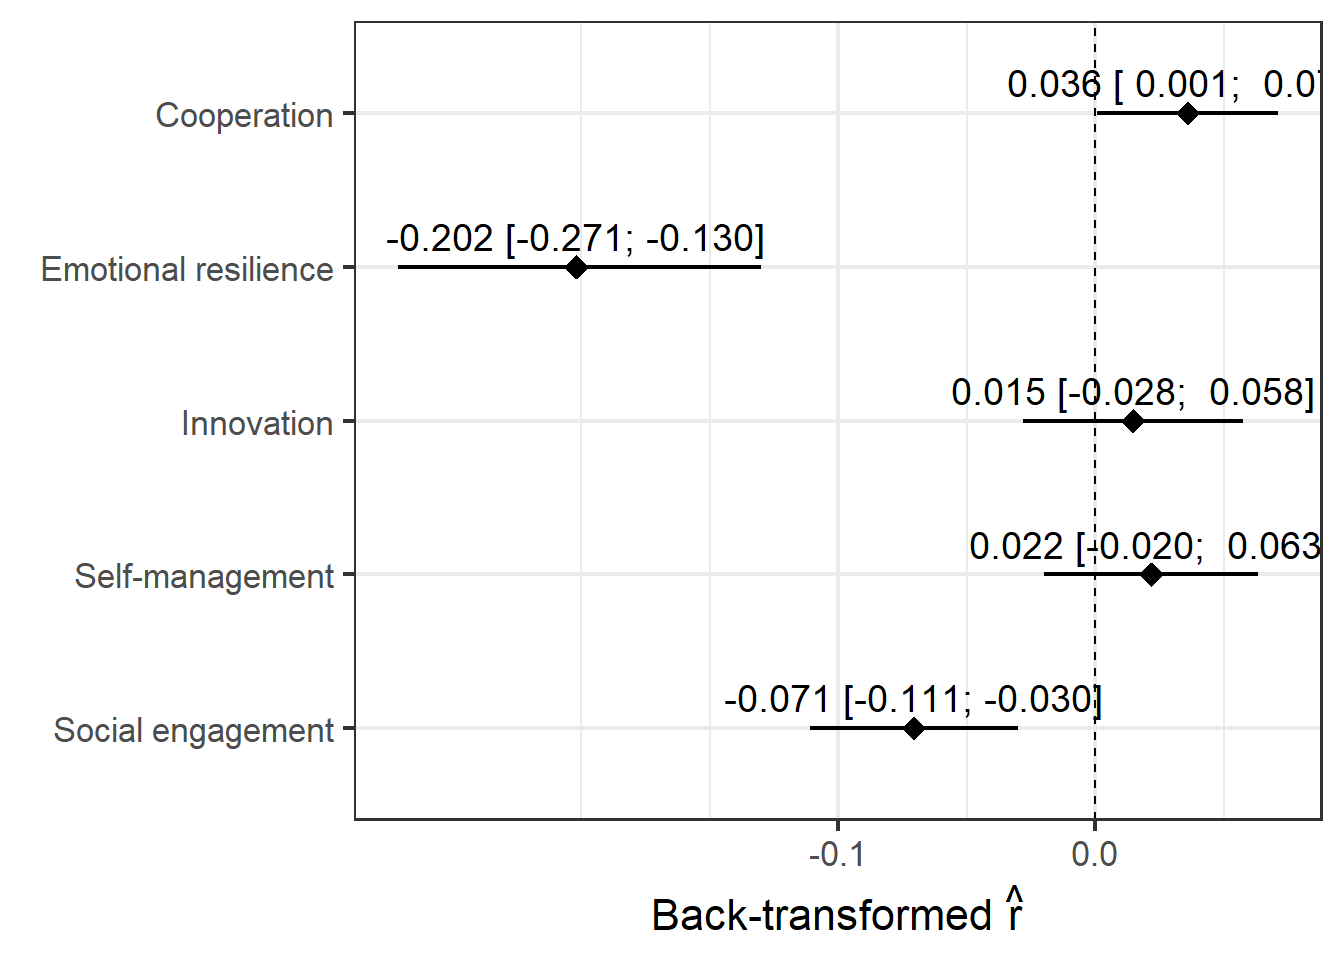
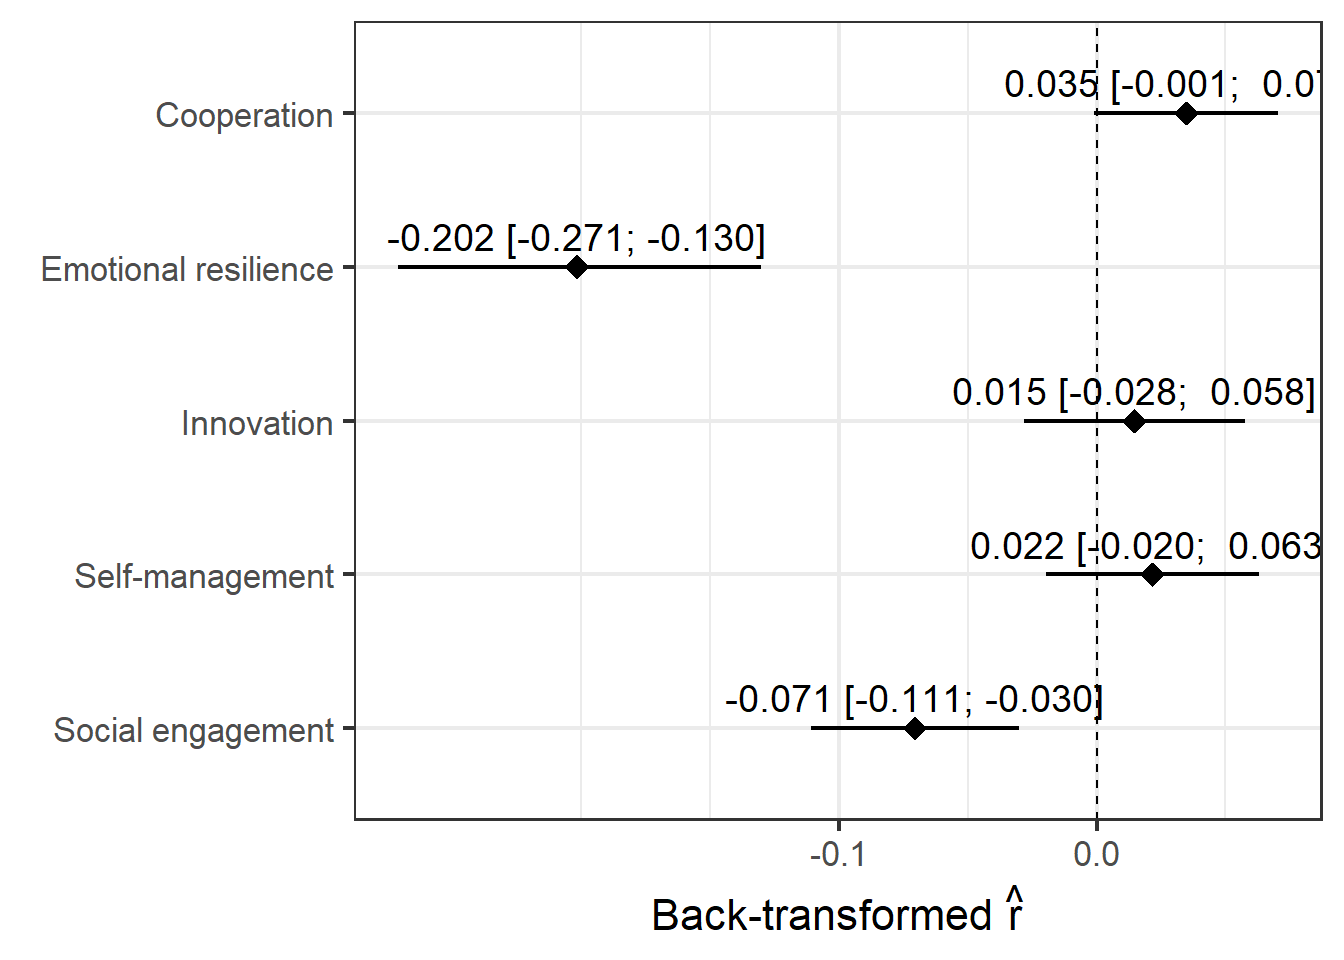
rev2 paper

diff --git a/README.html b/README.html
@@ -355,7 +355,7 @@ display: none;
 <div id="a-living-database-for-review-and-meta-analysis-of-seb-skills-studies" class="section level1">
 <h1>A Living Database for Review and Meta-Analysis of SEB Skills
 Studies</h1>
-<p><strong>DATA LAST UPDATED:</strong> 2026-02-03</p>
[1 lines of base64/hex data omitted]
 <p>This repository contains all the open materials of the <strong>Living
 SEB Skills Project</strong>, a living meta-analysis on Social,
 Emotional, and Behavioral (SEB) skills updated regularly, alongside an
@@ -390,36 +390,42 @@ interactive Shiny application for exploring the results.</p>
 <h2>Licensing</h2>
 <table>
 <colgroup>
-<col width="50%" />
-<col width="50%" />
+<col width="21%" />
+<col width="46%" />
+<col width="31%" />
 </colgroup>
 <thead>
 <tr class="header">
 <th>Component</th>
+<th>Directory</th>
 <th>License</th>
 </tr>
 </thead>
 <tbody>
 <tr class="odd">
-<td>Source code (Shiny app, R scripts)</td>
-<td><a href="LICENSE-SOFTWARE-CODE">AGPL-3.0</a></td>
+<td>Shiny app &amp; R scripts</td>
+<td>app/, tutorialAnalysis/</td>
+<td>AGPL-3.0</td>
 </tr>
 <tr class="even">
 <td>Curated dataset</td>
-<td><a href="LICENSE-PROCESSED-DATA">CC-BY 4.0</a></td>
+<td>data/</td>
+<td>CC-BY 4.0</td>
 </tr>
 <tr class="odd">
 <td>App outputs</td>
-<td><a href="LICENSE-SOFTWARE-OUTPUT">CC-BY 4.0</a></td>
+<td>—</td>
+<td>CC-BY 4.0</td>
 </tr>
 <tr class="even">
-<td>Preregistration, Preprint, documentation</td>
-<td><a href="LICENSE-DOCUMENTATION">CC-BY 4.0</a></td>
+<td>Paper, docs, slides</td>
+<td>paper/, slides/, preregistration/, appManual/</td>
+<td>CC-BY 4.0</td>
 </tr>
 <tr class="odd">
-<td>Raw data from original studies</td>
-<td>Not redistributed: rights belong to original authors and
-publishers</td>
+<td>Raw data</td>
+<td>—</td>
+<td>Not redistributed (no license)</td>
 </tr>
 </tbody>
 </table>
@@ -445,12 +451,12 @@ Social, Emotional, and Behavioral Skills. <em>PsyArXiv</em>. <a href="https://do
 }</code></pre>
 <div id="data" class="section level3">
 <h3>Data</h3>
-<p><strong>DATA LAST UPDATED:</strong> 2026-02-03</p>
[1 lines of base64/hex data omitted]
 <p>The dataset is updated approximately once a month. This project is
 linked to <strong>Zenodo</strong>, and each dataset update will trigger
-a new release. If no new articles are available, no release will be
-published. To ensure reproducibility, please cite a specific release
-using its version tag.</p>
+a new release. If no new articles are available, a no-data release will
+be published anyway. To ensure reproducibility, please cite a specific
+release using its version tag.</p>
 </div>
 </div>
 </div>

diff --git a/README.md b/README.md
@@ -1,6 +1,7 @@
 # A Living Database for Review and Meta-Analysis of SEB Skills Studies
 
-**DATA LAST UPDATED:** 2026-02-03
+[![Latest release](https://img.shields.io/github/v/release/feracotommaso/living_SEB_review)](https://github.com/feracotommaso/living_SEB_review/releases)
+
 
 This repository contains all the open materials of the **Living SEB Skills Project**, a living meta-analysis on Social, Emotional, and Behavioral (SEB) skills updated regularly, alongside an interactive Shiny application for exploring the results.
 
@@ -67,8 +68,8 @@ Feraco, T., Calderan, M. & Pellegrino, G. (2025). The Living SEB Skills Project:
 
 ### Data
 
-**DATA LAST UPDATED:** 2026-02-03
+[![Latest release](https://img.shields.io/github/v/release/feracotommaso/living_SEB_review)](https://github.com/feracotommaso/living_SEB_review/releases)
 
 The dataset is updated approximately once a month. 
-This project is linked to **Zenodo**, and each dataset update will trigger a new release. If no new articles are available, no release will be published.
+This project is linked to **Zenodo**, and each dataset update will trigger a new release. If no new articles are available, a no-data release will be published anyway.
 To ensure reproducibility, please cite a specific release using its version tag.